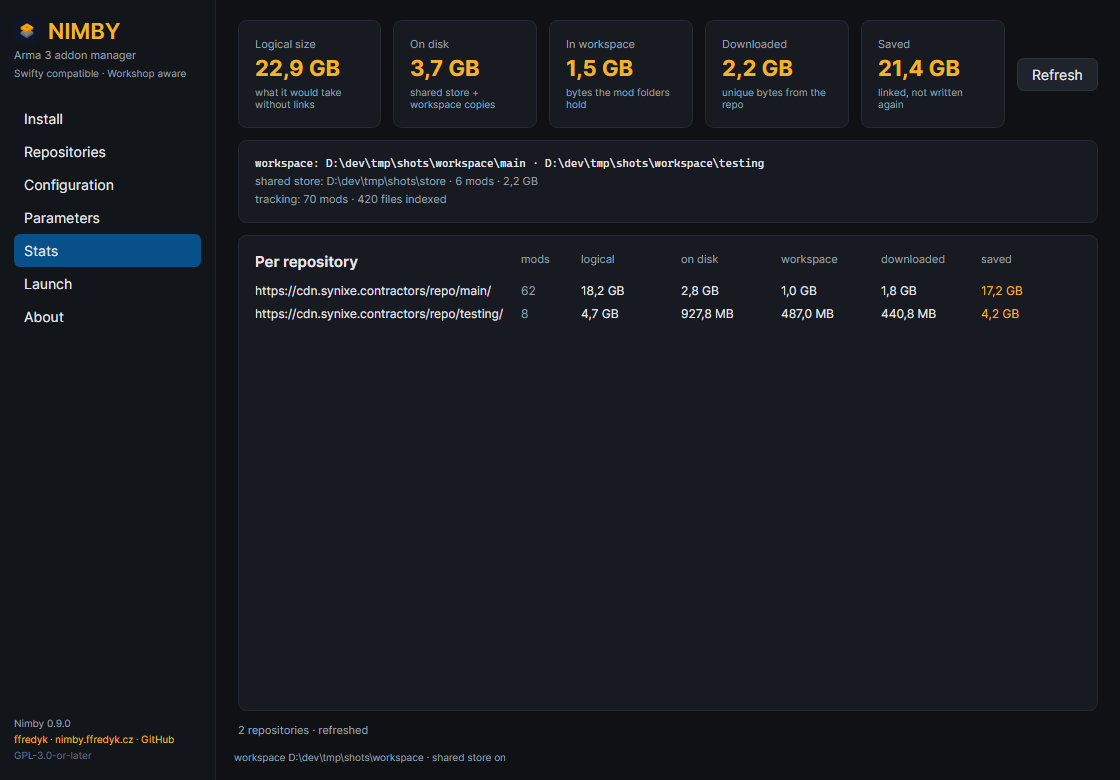
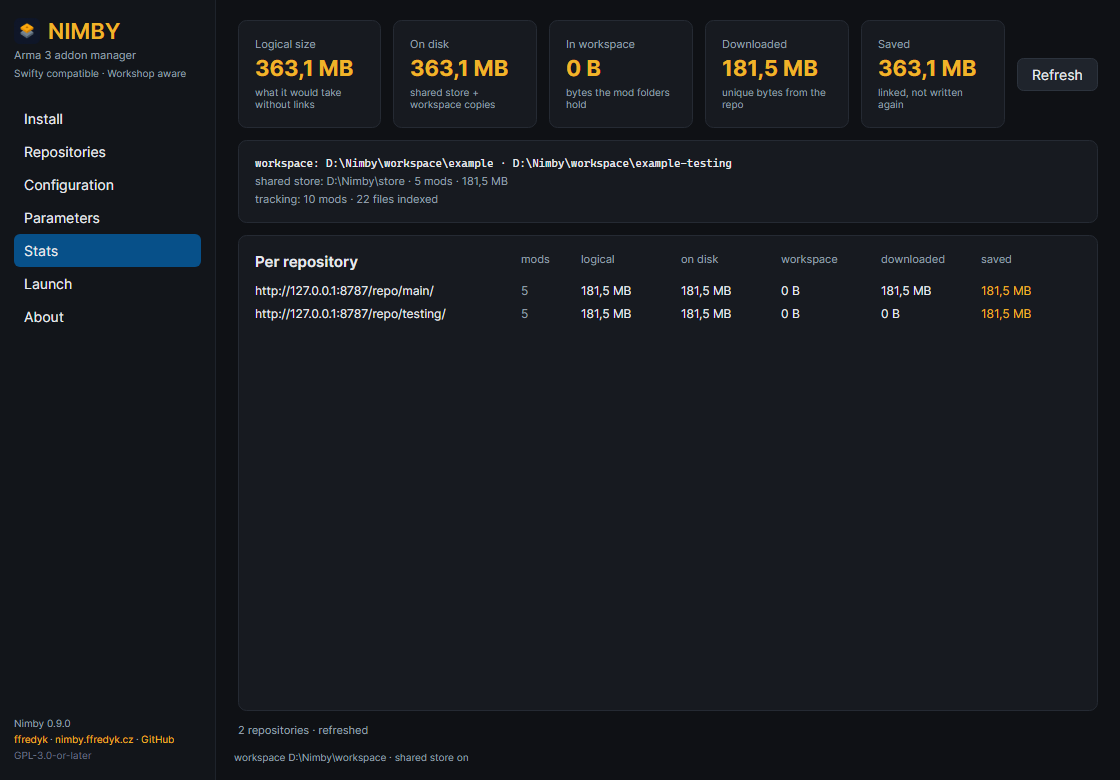
docs: render screenshots from a neutral demo repository
The published pages showed a real community's name, artwork, CDN URL and
server list. They are now captured from a fictional demo repository served
from localhost, so nothing in the README or the tutorial advertises a third
party. Screenshot workflow documented in docs/screenshots/README.md, and the
illustrative workspaces in the docs use neutral names.

diff --git a/docs/screenshots/README.md b/docs/screenshots/README.md
@@ -1,0 +1,31 @@
+# Screenshots
+
+These pages are rendered by the app itself: `NIMBY_SMOKE_SHOTS=<folder>` starts
+the GUI, visits every page and saves its own rendered frame as PNG.
+
+The repository shown in them is a **fictional demo repository** (name, artwork
+and server list are placeholders served from `127.0.0.1`) so the images do not
+promote any real Arma 3 community. Mod names use the `@example_*` prefix and the
+payload is generated test data.
+
+To refresh them, point `NIMBY_CONFIG` at a config with at least one installed
+repository, then run:
+
+```powershell
+$env:NIMBY_CONFIG = 'D:\Nimby\config.json'
+$env:NIMBY_SMOKE_SHOTS = 'D:\Nimby\shots'
+gui\Nimby.App\bin\Release\net10.0\Nimby.exe
+```
+
+Each page is captured at 1120x780. Copy the PNGs into this folder under the
+names below:
+
+| File | Page |
+| --- | --- |
+| `01-install.png` | Install |
+| `02-repos.png` | Repositories |
+| `03-config.png` | Configuration |
+| `04-parameters.png` | Parameters |
+| `05-stats.png` | Stats |
+| `06-launch.png` | Launch |
+| `07-about.png` | About |

diff --git a/docs/TUTORIAL.md b/docs/TUTORIAL.md
@@ -79,7 +79,7 @@ URL; it must point at that folder, not at the website in general.
 *The Repositories page: add form on top, the list on the left, details on the right.*
 
 **One repository, one folder.** The workspace root is a container, not an install
-target: every repository installs into its own subfolder (`E:\Nimby\Synixe`,
+target: every repository installs into its own subfolder (`E:\Nimby\ExampleRepo`,
 `E:\Nimby\OtherCommunity`), so two communities never mix and update independently.
 Names are cleaned to letters, digits, `_`, `.` and `-`; anything else becomes `-`, and
 two repositories never share a folder: the second one gets a `-2` suffix.
@@ -358,7 +358,7 @@ nimby store prune
 nimby stats --json
 nimby status
 nimby doctor
-nimby launch --server Contracts --dry-run
+nimby launch --server "Example Public" --dry-run
 ```
 
 `nimby config`, `nimby config set`, `nimby repo …` and `nimby migrate` are shown in

diff --git a/README.md b/README.md
@@ -94,7 +94,7 @@ one-by-one vs 5.2 s with two at a time.
 
 ```
 E:\Nimby\                              workspace root
-  Synixe-Contractors\                  one repository, fully isolated
+  Example-Repo\                        one repository, fully isolated
     @cba_ws\                           mod folder (hardlinks / junction)
     .nimby\<mod>.json                  provenance: repo, checksum, mode, sources
     .nimby\tracking.json               per-file index (origin, location, size+mtime)
